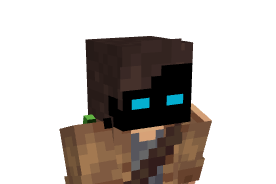
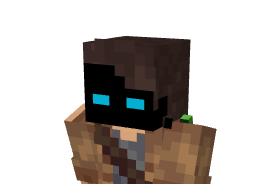
Added Saucko to about.html

Changed region(s): [[0.2029, 0.1902, 0.7826, 1.0]]

diff --git a/about.html b/about.html
@@ -105,7 +105,7 @@
 											<header class="major">
 												<h3>Basil</h3>
 											</header>
-											<p>Basil is the lead artist of Runforge. He also is helping the building team. He is a pixel artist, Minecraft modeler and Minecraft builder. He enjoys indie & rythem games.</p>
+											<p>Basil is the lead artist of Runforge. He is a pixel artist, Minecraft modeler and Minecraft builder. He enjoys indie & rythem games.</p>
 											<!-- "Nice" --Basil Dec 2, 2025-->
 										</div>
 									</div>
@@ -120,6 +120,19 @@
 												<h3>Nytro</h3>
 											</header>
 											<p>Nytro is a developer at Runforge. He does web developement and resource pack developement for us.</p>
+										</div>
+									</div>
+								</section>
+								<section>
+									<a class="image">
+										<img src="images/saucko-body.png" alt="" data-position="25% 25%" />
+									</a>
+									<div class="content">
+										<div class="inner">
+											<header class="major">
+												<h3>Saucko</h3>
+											</header>
+											<p>Saucko is a builder for runforge. He mainly helps with the dungeons as well as giving lots of ideas for game design.</p>
 										</div>
 									</div>
 								</section>
